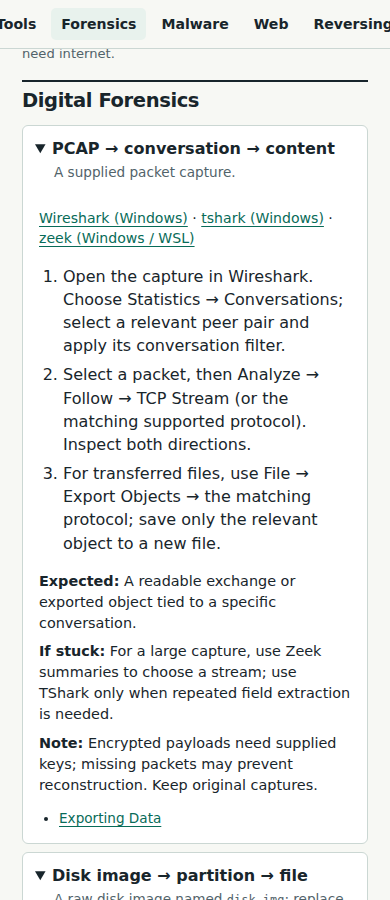
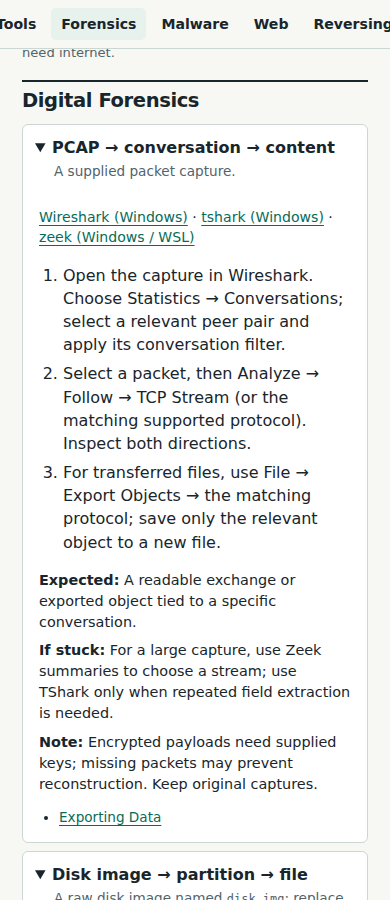
Rename guide branding to Manual CTF Strategies

diff --git a/guide-template.html b/guide-template.html
@@ -5,7 +5,7 @@
   <meta name="viewport" content="width=device-width, initial-scale=1">
   <meta name="color-scheme" content="light">
   <link rel="icon" href="data:,">
-  <title>Cyber SEA Game 2026 · field guide</title>
+  <title>Manual CTF Strategies · field guide</title>
   <style>
     :root { color-scheme:light; --ink:#18252b; --muted:#52636a; --line:#cbd7d3; --paper:#f7f8f4; --card:#fff; --green:#086b58; --pale:#e8f2ed; }
     * { box-sizing:border-box; }
@@ -75,7 +75,7 @@
 <body>
   <a class="skip" href="#main">Skip to guide</a>
   <header><div class="wrap">
-    <p>Cyber SEA Game 2026</p>
+    <p>Manual CTF Strategies</p>
     <h1>CTF field guide</h1>
   </div></header>
   <nav aria-label="Challenge categories"><div class="wrap">
@@ -84,7 +84,7 @@
   <main id="main" class="wrap" tabindex="-1">
     <section id="tools" aria-labelledby="tools-title">
       <h2 id="tools-title">Approved tool catalog</h2>
-      <p class="legend">200 approved entries. <a href="CORE_WORKFLOWS.html">Core workflows for 32 Trend Micro proposals</a>; Kali availability is best effort.</p>
+      <p class="legend">200 entries approved for Cyber SEA Game 2026. <a href="CORE_WORKFLOWS.html">Core workflows for 32 Trend Micro proposals</a>; Kali availability is best effort.</p>
       <div class="search-controls" hidden>
         <label for="tool-search">Find an approved tool</label>
         <div class="search-row"><input type="search" id="tool-search" autocomplete="off" placeholder="Tool name or task"><button type="button" id="clear-search">Clear</button></div>

diff --git a/index.html b/index.html
@@ -5,7 +5,7 @@
   <meta name="viewport" content="width=device-width, initial-scale=1">
   <meta name="color-scheme" content="light">
   <link rel="icon" href="data:,">
-  <title>Cyber SEA Game 2026 · field guide</title>
+  <title>Manual CTF Strategies · field guide</title>
   <style>
     :root { color-scheme:light; --ink:#18252b; --muted:#52636a; --line:#cbd7d3; --paper:#f7f8f4; --card:#fff; --green:#086b58; --pale:#e8f2ed; }
     * { box-sizing:border-box; }
@@ -75,7 +75,7 @@
 <body>
   <a class="skip" href="#main">Skip to guide</a>
   <header><div class="wrap">
-    <p>Cyber SEA Game 2026</p>
+    <p>Manual CTF Strategies</p>
     <h1>CTF field guide</h1>
   </div></header>
   <nav aria-label="Challenge categories"><div class="wrap">
@@ -84,7 +84,7 @@
   <main id="main" class="wrap" tabindex="-1">
     <section id="tools" aria-labelledby="tools-title">
       <h2 id="tools-title">Approved tool catalog</h2>
-      <p class="legend">200 approved entries. <a href="CORE_WORKFLOWS.html">Core workflows for 32 Trend Micro proposals</a>; Kali availability is best effort.</p>
+      <p class="legend">200 entries approved for Cyber SEA Game 2026. <a href="CORE_WORKFLOWS.html">Core workflows for 32 Trend Micro proposals</a>; Kali availability is best effort.</p>
       <div class="search-controls" hidden>
         <label for="tool-search">Find an approved tool</label>
         <div class="search-row"><input type="search" id="tool-search" autocomplete="off" placeholder="Tool name or task"><button type="button" id="clear-search">Clear</button></div>

diff --git a/keyword-preview.html b/keyword-preview.html
@@ -5,7 +5,7 @@
   <meta name="viewport" content="width=device-width, initial-scale=1">
   <meta name="color-scheme" content="light">
   <link rel="icon" href="data:,">
-  <title>Cyber SEA Game 2026 · field guide</title>
+  <title>Manual CTF Strategies · field guide</title>
   <style>
     :root { color-scheme:light; --ink:#18252b; --muted:#52636a; --line:#cbd7d3; --paper:#f7f8f4; --card:#fff; --green:#086b58; --pale:#e8f2ed; }
     * { box-sizing:border-box; }
@@ -75,7 +75,7 @@
 <body>
   <a class="skip" href="#main">Skip to guide</a>
   <header><div class="wrap">
-    <p>Cyber SEA Game 2026</p>
+    <p>Manual CTF Strategies</p>
     <h1>CTF field guide</h1>
   </div></header>
   <nav aria-label="Challenge categories"><div class="wrap">
@@ -84,7 +84,7 @@
   <main id="main" class="wrap" tabindex="-1">
     <section id="tools" aria-labelledby="tools-title">
       <h2 id="tools-title">Approved tool catalog</h2>
-      <p class="legend">200 approved entries. <a href="CORE_WORKFLOWS.html">Core workflows for 32 Trend Micro proposals</a>; Kali availability is best effort.</p>
+      <p class="legend">200 entries approved for Cyber SEA Game 2026. <a href="CORE_WORKFLOWS.html">Core workflows for 32 Trend Micro proposals</a>; Kali availability is best effort.</p>
       <div class="search-controls" hidden>
         <label for="tool-search">Find an approved tool</label>
         <div class="search-row"><input type="search" id="tool-search" autocomplete="off" placeholder="Tool name or task"><button type="button" id="clear-search">Clear</button></div>

diff --git a/APPROVED_TOOL_REFERENCES.html b/APPROVED_TOOL_REFERENCES.html
@@ -6,7 +6,7 @@
   <meta name="color-scheme" content="light">
[1 lines of base64/hex data omitted]
   <link rel="icon" href="data:,">
-  <title>All approved tools: study and reference index · Cyber SEA Game 2026</title>
+  <title>All approved tools: study and reference index · Manual CTF Strategies</title>
   <style>
     :root { color-scheme:light; --ink:#18252b; --muted:#52636a; --line:#cbd7d3; --paper:#f7f8f4; --green:#086b58; }
     * { box-sizing:border-box; }

diff --git a/LEARNING_RESOURCES.html b/LEARNING_RESOURCES.html
@@ -6,7 +6,7 @@
   <meta name="color-scheme" content="light">
[1 lines of base64/hex data omitted]
   <link rel="icon" href="data:,">
-  <title>Approved tools: a practical 24-hour refresher · Cyber SEA Game 2026</title>
+  <title>Approved tools: a practical 24-hour refresher · Manual CTF Strategies</title>
   <style>
     :root { color-scheme:light; --ink:#18252b; --muted:#52636a; --line:#cbd7d3; --paper:#f7f8f4; --green:#086b58; }
     * { box-sizing:border-box; }

diff --git a/RESOURCE_EVALUATION.html b/RESOURCE_EVALUATION.html
@@ -6,7 +6,7 @@
   <meta name="color-scheme" content="light">
[1 lines of base64/hex data omitted]
   <link rel="icon" href="data:,">
-  <title>Resource decisions and content evidence · Cyber SEA Game 2026</title>
+  <title>Resource decisions and content evidence · Manual CTF Strategies</title>
   <style>
     :root { color-scheme:light; --ink:#18252b; --muted:#52636a; --line:#cbd7d3; --paper:#f7f8f4; --green:#086b58; }
     * { box-sizing:border-box; }

diff --git a/research/learning/video-coverage/practice/AUDIO_PRACTICE.html b/research/learning/video-coverage/practice/AUDIO_PRACTICE.html
@@ -6,7 +6,7 @@
   <meta name="color-scheme" content="light">
[1 lines of base64/hex data omitted]
   <link rel="icon" href="data:,">
-  <title>Audio inspection: resolve nearby tones · Cyber SEA Game 2026</title>
+  <title>Audio inspection: resolve nearby tones · Manual CTF Strategies</title>
   <style>
     :root { color-scheme:light; --ink:#18252b; --muted:#52636a; --line:#cbd7d3; --paper:#f7f8f4; --green:#086b58; }
     * { box-sizing:border-box; }

diff --git a/PRACTICE_WORKSHEETS.html b/PRACTICE_WORKSHEETS.html
@@ -6,7 +6,7 @@
   <meta name="color-scheme" content="light">
[1 lines of base64/hex data omitted]
   <link rel="icon" href="data:,">
-  <title>Offline practice and answer checks · Cyber SEA Game 2026</title>
+  <title>Offline practice and answer checks · Manual CTF Strategies</title>
   <style>
     :root { color-scheme:light; --ink:#18252b; --muted:#52636a; --line:#cbd7d3; --paper:#f7f8f4; --green:#086b58; }
     * { box-sizing:border-box; }

diff --git a/RULES.html b/RULES.html
@@ -6,7 +6,7 @@
   <meta name="color-scheme" content="light">
[1 lines of base64/hex data omitted]
   <link rel="icon" href="data:,">
-  <title>Competition rules for this toolkit · Cyber SEA Game 2026</title>
+  <title>Competition rules for this toolkit · Manual CTF Strategies</title>
   <style>
     :root { color-scheme:light; --ink:#18252b; --muted:#52636a; --line:#cbd7d3; --paper:#f7f8f4; --green:#086b58; }
     * { box-sizing:border-box; }

diff --git a/EVENT_SOURCES.html b/EVENT_SOURCES.html
@@ -6,7 +6,7 @@
   <meta name="color-scheme" content="light">
[1 lines of base64/hex data omitted]
   <link rel="icon" href="data:,">
-  <title>Event rules and tool availability · Cyber SEA Game 2026</title>
+  <title>Event rules and tool availability · Manual CTF Strategies</title>
   <style>
     :root { color-scheme:light; --ink:#18252b; --muted:#52636a; --line:#cbd7d3; --paper:#f7f8f4; --green:#086b58; }
     * { box-sizing:border-box; }

diff --git a/research/learning/video-coverage/practice/TRIAGE_PRACTICE.html b/research/learning/video-coverage/practice/TRIAGE_PRACTICE.html
@@ -6,7 +6,7 @@
   <meta name="color-scheme" content="light">
[1 lines of base64/hex data omitted]
   <link rel="icon" href="data:,">
-  <title>Bytes, encodings and PDF streams · Cyber SEA Game 2026</title>
+  <title>Bytes, encodings and PDF streams · Manual CTF Strategies</title>
   <style>
     :root { color-scheme:light; --ink:#18252b; --muted:#52636a; --line:#cbd7d3; --paper:#f7f8f4; --green:#086b58; }
     * { box-sizing:border-box; }

diff --git a/HASHCAT.html b/HASHCAT.html
@@ -6,7 +6,7 @@
   <meta name="color-scheme" content="light">
[1 lines of base64/hex data omitted]
   <link rel="icon" href="data:,">
-  <title>Hashcat competition cheatsheet · Cyber SEA Game 2026</title>
+  <title>Hashcat competition cheatsheet · Manual CTF Strategies</title>
   <style>
     :root { color-scheme:light; --ink:#18252b; --muted:#52636a; --line:#cbd7d3; --paper:#f7f8f4; --green:#086b58; }
     * { box-sizing:border-box; }
